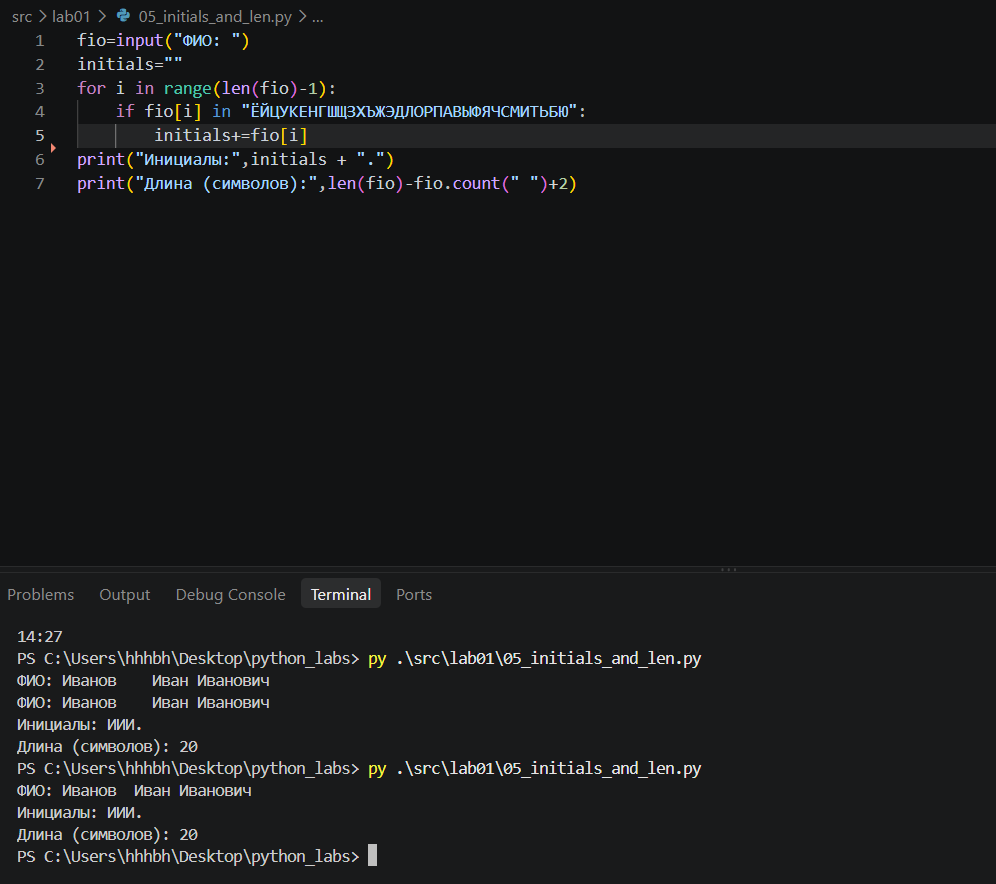
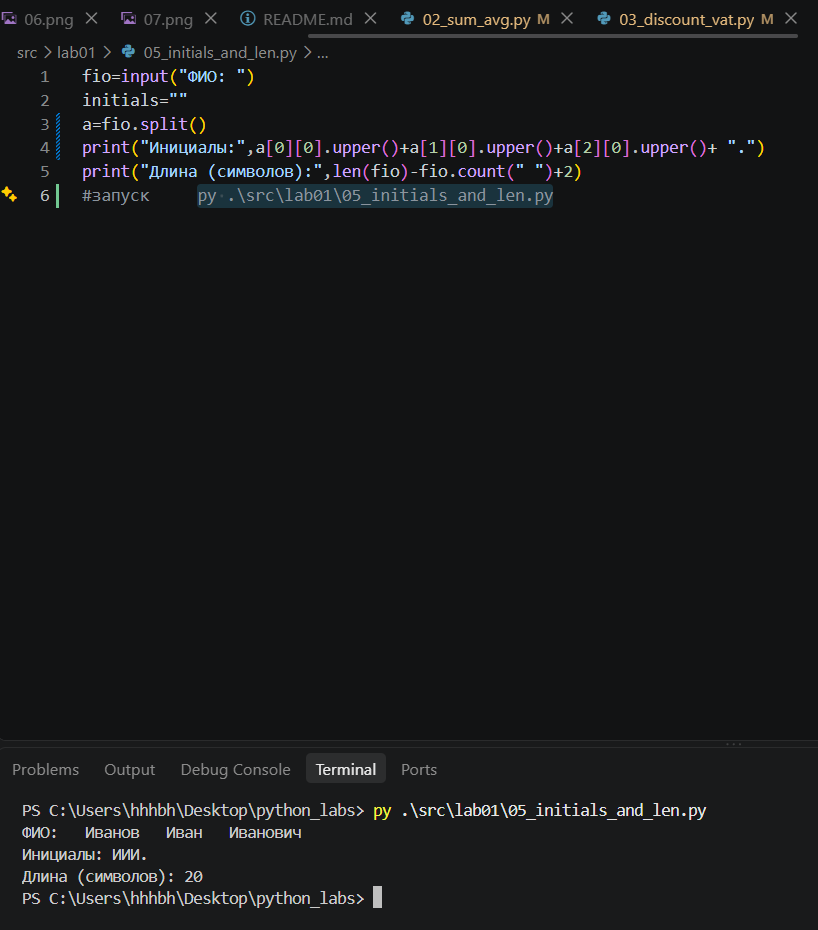
.

diff --git a/src/lab01/03_discount_vat.py b/src/lab01/03_discount_vat.py
@@ -1,6 +1,7 @@
-price=float(input("Цена: "))
-discount=float(input("Скидка: "))
-vat=float(input("НДС: "))
-print("База после скидки:", str(round((price*(1-(discount/100))),2))+"₽")
-print("НДС:",  str(round(((vat/100)*price*(1-(discount/100))),2))+"₽")
-print("Итого к оплате:",  str(round(round((price*(1-(discount/100))),2)+ round(((vat/100)*price*(1-(discount/100))),2),2))+"₽")
+price=float(input("Цена (₽): "))
+discount=float(input("Скидка (%): "))
+vat=float(input("НДС (%): "))
+print("База после скидки:", str(round((price*(1-(discount/100))),2))+" ₽")
+print("НДС:",  str(round(((vat/100)*price*(1-(discount/100))),2))+" ₽")
+print("Итого к оплате:",  str(round(round((price*(1-(discount/100))),2)+ round(((vat/100)*price*(1-(discount/100))),2),2))+" ₽")
+#запуск     py .\src\lab01\03_discount_vat.py

diff --git a/src/lab01/06.py b/src/lab01/06.py
@@ -1,20 +1,13 @@
-n=5
+n=int(input())
 list1=[]
-in_1="Максимов Максим 18 True"
-list1.append(in_1)
-in_2="Геннадьев Геннадий 17 False"
-list1.append(in_2)
-in_3="Алексеев Алексей 17 True"
-list1.append(in_3)
-in_4="Дмитриев Дмитрий 18 False"
-list1.append(in_4)
-in_5="Андреев Андрей 18 True"
-list1.append(in_5)
-очно=0
-заочно=0
-for i in range(0,n):
-    if list1[i].count("T")==1:
-        очно+=1
-    else:
-        заочно+=1
-print(очно,заочно)
+och=0
+zaoch=0
+for i in range(n):
+    k=input()
+    list1.append(k.split())
+for i in range(n):
+    if list1[i][3].count("True")==1:
+        och+=1
+zaoch=n-och
+print("Out:",och,zaoch)
+#запуск     py .\src\lab01\06.py

diff --git a/src/lab01/05_initials_and_len.py b/src/lab01/05_initials_and_len.py
@@ -1,7 +1,6 @@
 fio=input("ФИО: ")
 initials=""
-for i in range(len(fio)-1):
-    if fio[i] in "ЁЙЦУКЕНГШЩЗХЪЖЭДЛОРПАВЫФЯЧСМИТЬБЮ":
-        initials+=fio[i]
-print("Инициалы:",initials + ".")
+a=fio.split()
+print("Инициалы:",a[0][0].upper()+a[1][0].upper()+a[2][0].upper()+ ".")
 print("Длина (символов):",len(fio)-fio.count(" ")+2)
+#запуск     py .\src\lab01\05_initials_and_len.py

diff --git a/src/lab01/07.py b/src/lab01/07.py
@@ -1,5 +1,4 @@
-inp="thisisabracadabraItww1 qewwwajodawwjjnww12twwjh plkjmqqqqaqqqqrqqqqkqqqq kmbg5kvay bztgpyhazlhdyxskopl."
-#I want mark 5 pls.
+inp=input("In: ")
 og=""
 m1=0
 m2=0
@@ -13,5 +12,5 @@ for i in range(0,len(inp)):
                 p=1
                 for k in range(m1,len(inp),(m2-m1+1)):
                     og+=inp[k]
-print(og)
-
+print("Out:",og)
+#запуск     py .\src\lab01\07.py

diff --git a/src/lab01/02_sum_avg.py b/src/lab01/02_sum_avg.py
@@ -1,3 +1,12 @@
-a=float(input("a: "))
-b=float(input("b: "))
+a=input("a: ")
+b=input("b: ")
+if str(a).count(",")==1:
+    a=float(str(a).replace(",","."))
+else:
+    a=float(str(a))
+if str(b).count(",")==1:
+    b=float(str(b).replace(",","."))
+else:
+    b=float(str(b))
 print("sum="+str(int((100*(a+b)))/100)+";","avg="+str(int((a+b)*50)/100))
+#запуск     py .\src\lab01\02_sum_avg.py

diff --git a/src/lab01/04_minutes_to_hhmm.py b/src/lab01/04_minutes_to_hhmm.py
@@ -1,2 +1,6 @@
 m=int(input("Минуты: "))
-print(str(m//60) + ":" + str(m-int(m/60)*60))
+if m-(m//60*60)>=10:
+    print(str(m//60) + ":" + str(m-int(m/60)*60))
+else:
+    print(str(m//60) + ":0" + str(m-int(m/60)*60))
+#запуск     py .\src\lab01\04_minutes_to_hhmm.py

diff --git a/src/lab01/01_greeting.py b/src/lab01/01_greeting.py
@@ -1,3 +1,4 @@
 name= input("Имя: "   )
 age = int(input("Возраст: "   ))
 print("Привет, "+ str(name)+ "! Через год тебе будет "+str((age+1)))
+#запуск     py .\src\lab01\01_greeting.py
